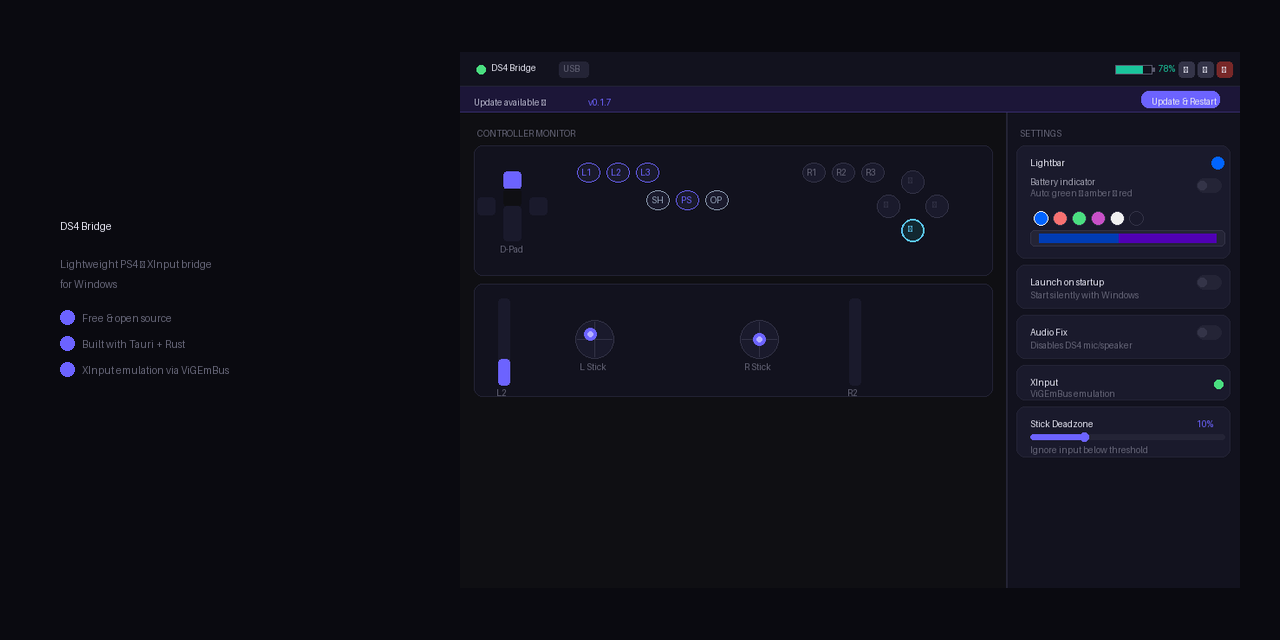
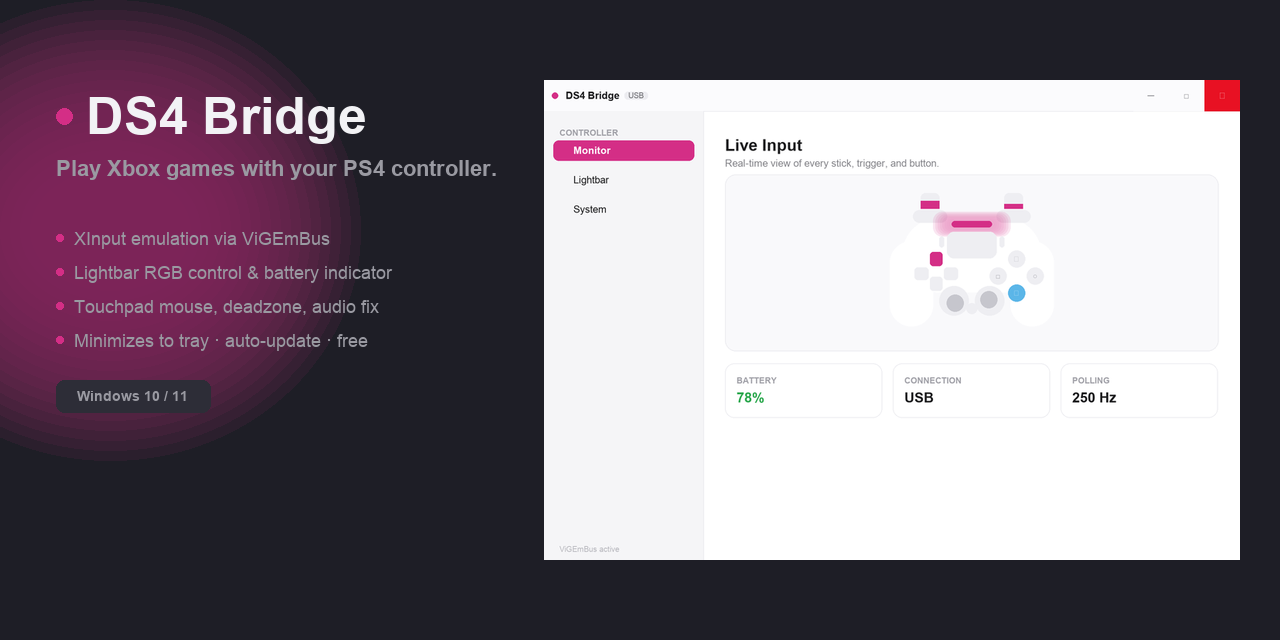
docs: update screenshot and README for v0.1.11 UI redesign
New screenshot shows sidebar nav, DS4 silhouette with magenta glow,
stat cards (battery/connection/polling), and light theme.
Social preview updated to match. README features list updated.

diff --git a/README.md b/README.md
@@ -14,17 +14,24 @@ Built with [Tauri 2](https://tauri.app) (Rust + React). Ships as a single `.exe`
 
 ![DS4 Bridge UI](docs/screenshot.png)
 
+> Light and dark themes available — toggle in the System tab.
+
 ---
 
 ## Features
 
 - **XInput emulation** — makes your DS4 look like an Xbox 360 pad to any game via [ViGEmBus](https://github.com/nefarius/ViGEmBus)
-- **Lightbar control** — pick any RGB color manually, or enable **battery color mode** (green → amber → red)
-- **Battery monitor** — live percentage shown in the UI, low-battery toast notification at 20%
+- **Live controller monitor** — animated DS4 silhouette showing every button, stick, and trigger in real-time
+- **Lightbar control** — pick any RGB color, or enable **battery color mode** (green → amber → red)
+- **Battery monitor** — live percentage in the title bar and a low-battery inline banner at 20%
+- **Stick deadzone** — per-axis deadzone slider to tame stick drift
+- **Touchpad as mouse** — swipe the DS4 touchpad to move your cursor; press to click
 - **Rumble passthrough** — game vibration routed back to the DS4 motors
 - **Audio fix** — disables the phantom microphone/speaker Windows registers when you plug in a DS4
 - **Launch on startup** — optional Windows startup entry
 - **Minimize to tray** — closing the window keeps it running in the system tray
+- **Light / dark theme** — toggle in the System tab, persisted across restarts
+- **Persistent settings** — all preferences saved and restored automatically
 
 ## Requirements
 